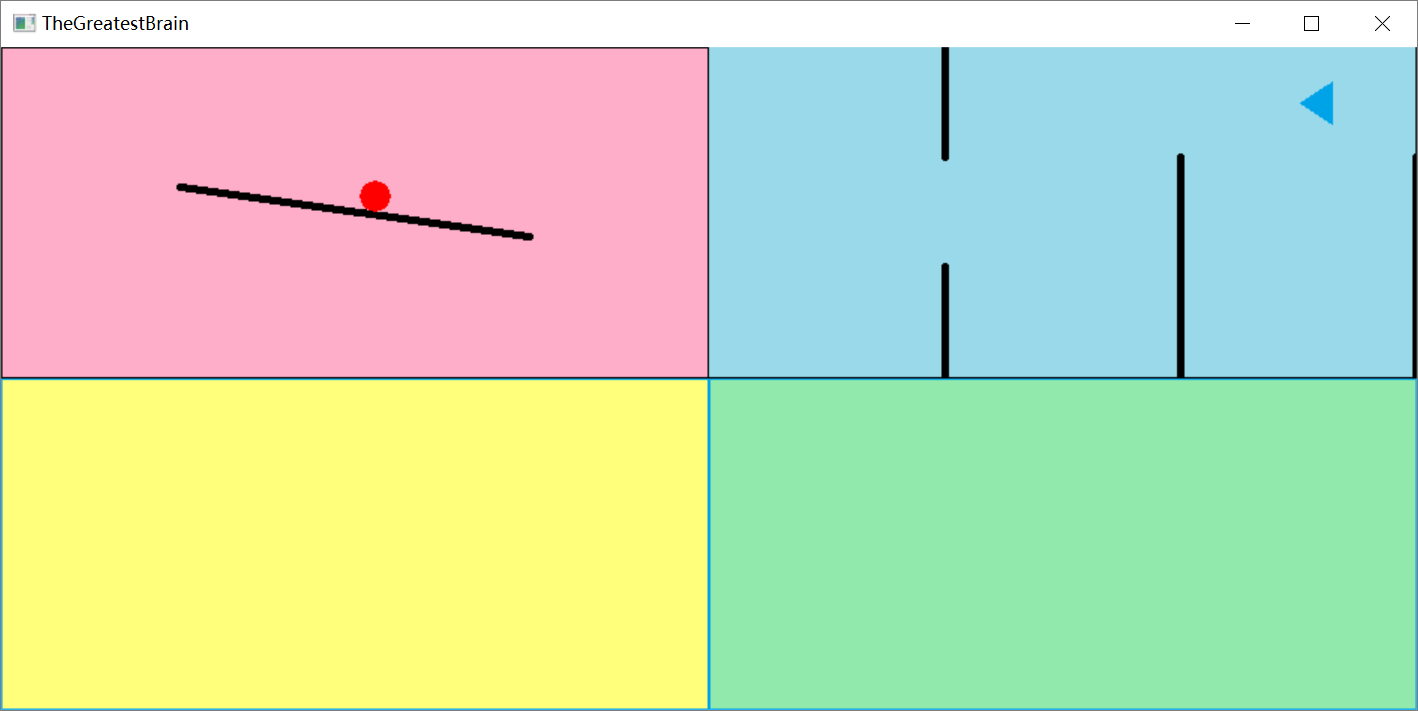
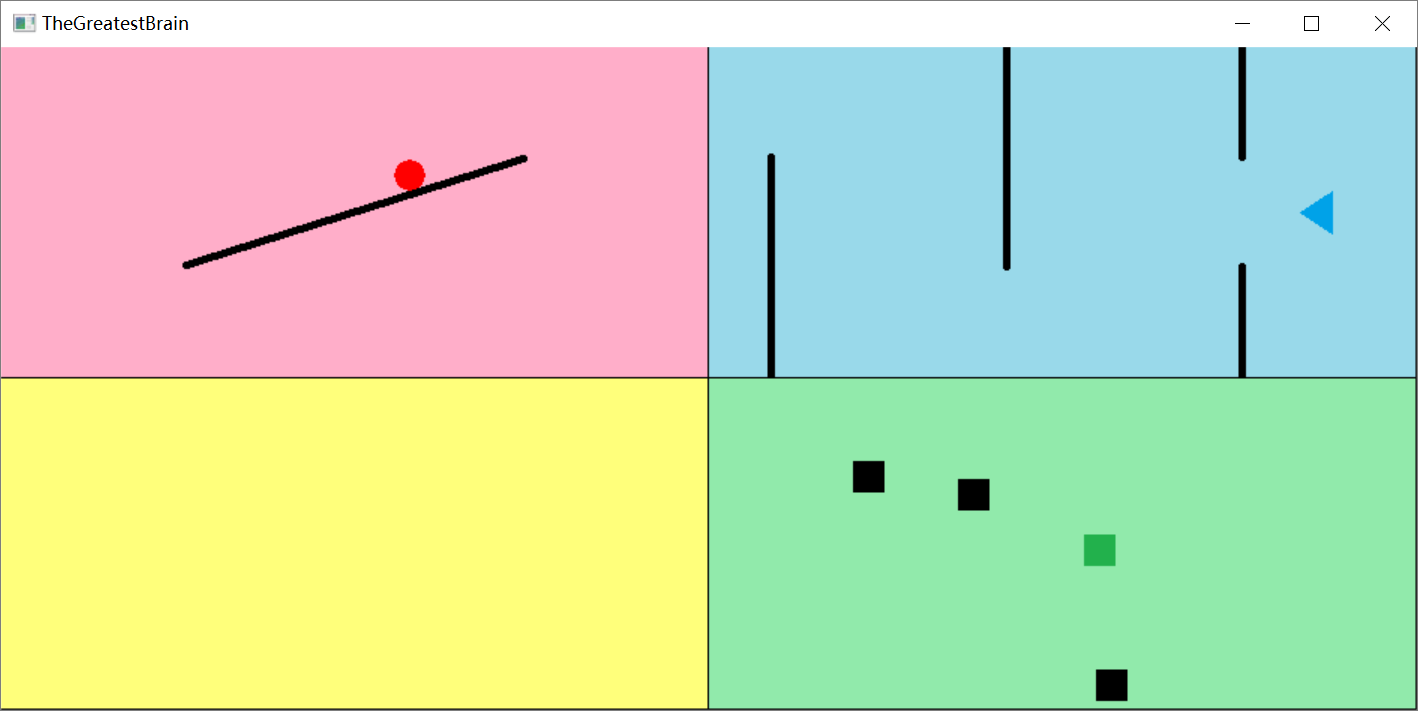
更新了readme.md文件及其所需的图片

diff --git a/readme.md b/readme.md
@@ -13,16 +13,17 @@
 
 ### 黄色部分（未设计好）
 
-### 绿色部分（未完成）
-小正方形周围有很多子弹射向小正方形，玩家需要使用WASD控制小正方形进行躲避。
+### 绿色部分（已完成）
+小正方形周围有很多敌人会四处游走，玩家需要使用WASD控制小正方形进行躲避。
 
 
-# 用到的数据结构
+# 用到的特殊数据结构
 ### 红色部分
 无
 ### 蓝色部分
-二维数组
+用布尔型的二维数组来表示每段墙是否存在（每一列墙有三段）。
 ### 黄色部分
 （未完成）
 ### 绿色部分
-（未完成）
+用POINT的数组来表示每个敌人的当前位置；
+用POINT的数组来表示每个敌人的当前方向；
